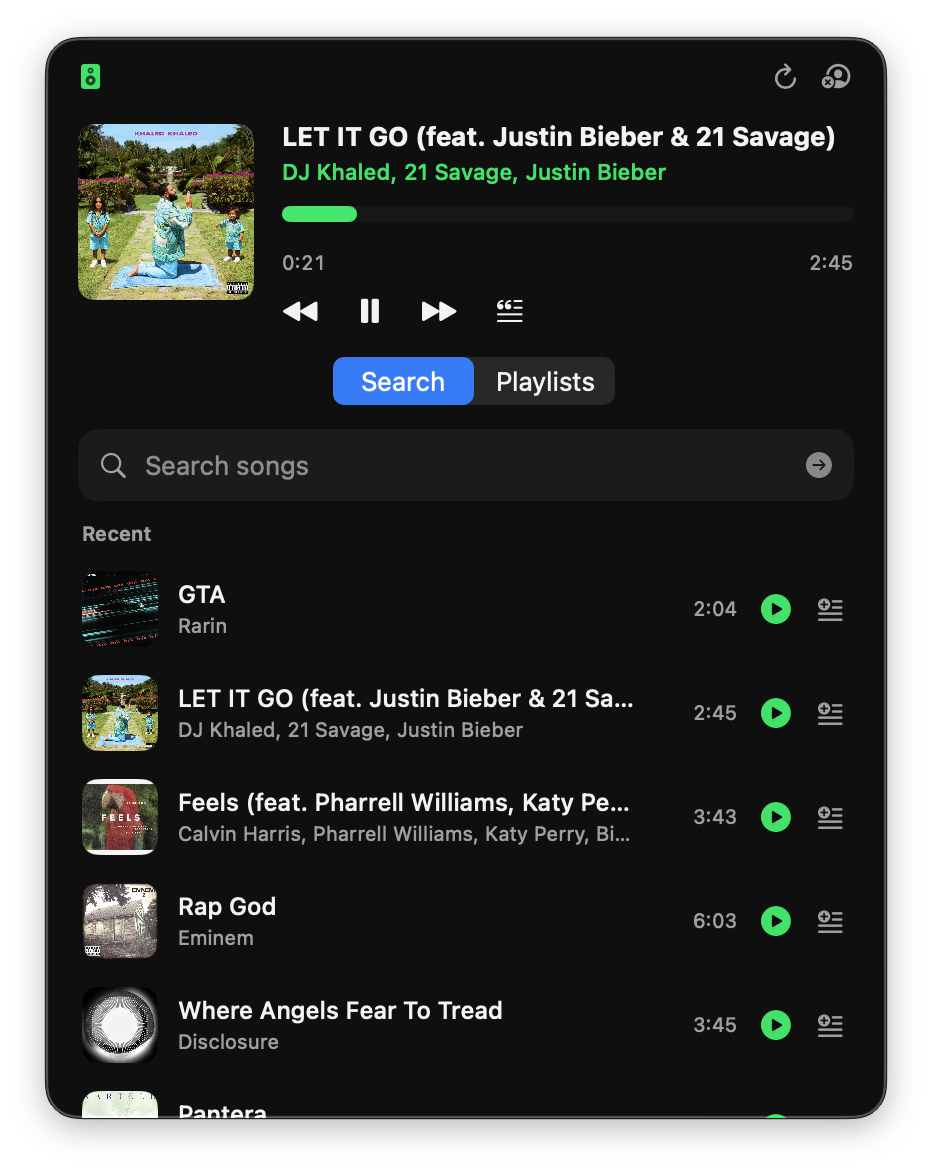
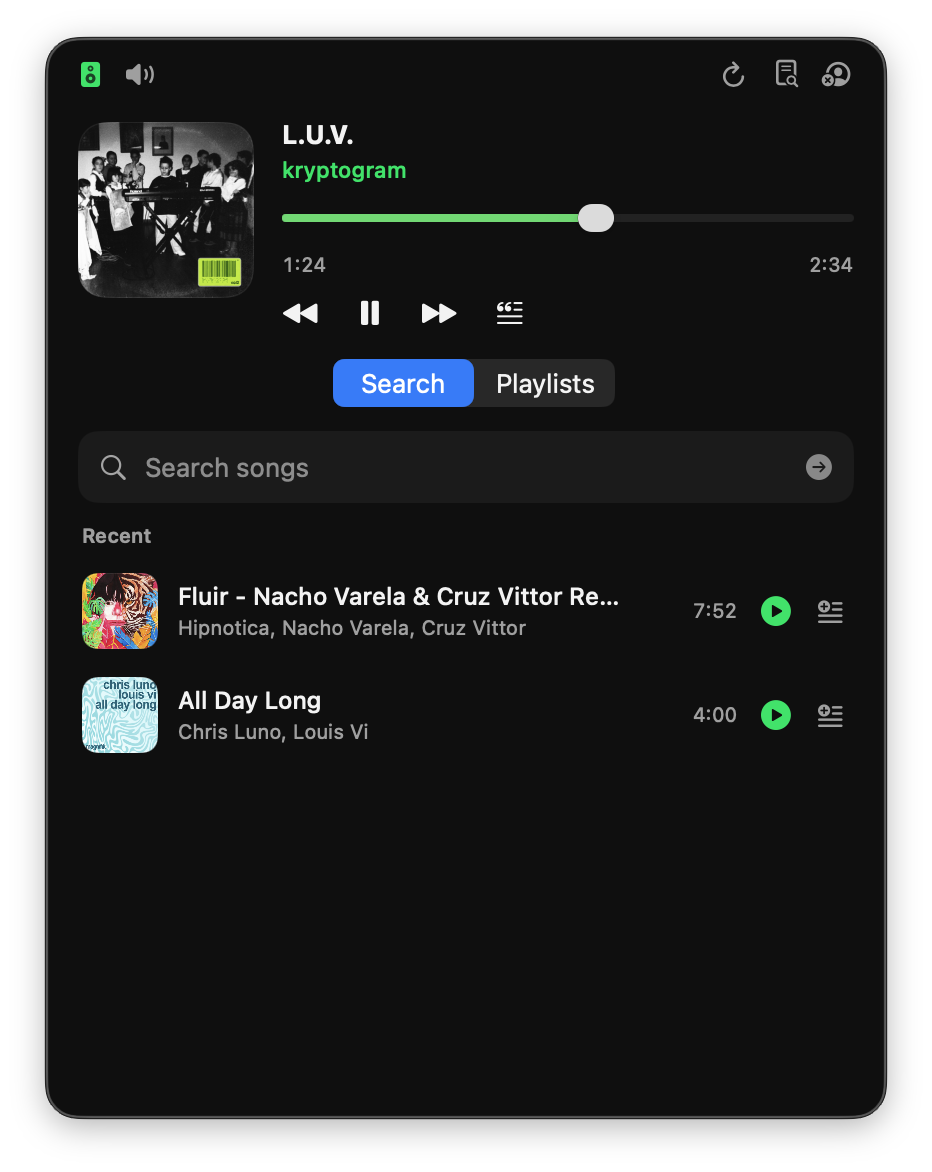
docs: refresh app screenshots

diff --git a/README.md b/README.md
@@ -175,4 +175,8 @@ A quick local snapshot (using RSS from `ps`, not a full Instruments benchmark) w
 
 **Playlists**
 
-<img src="./assets/image.png" width="400" alt="Playlists tab">
+<img src="./assets/playlists.png" width="400" alt="Playlists tab">
+
+**Playlist Detail**
+
+<img src="./assets/playlist-detail.png" width="400" alt="Playlist detail with tracks">
